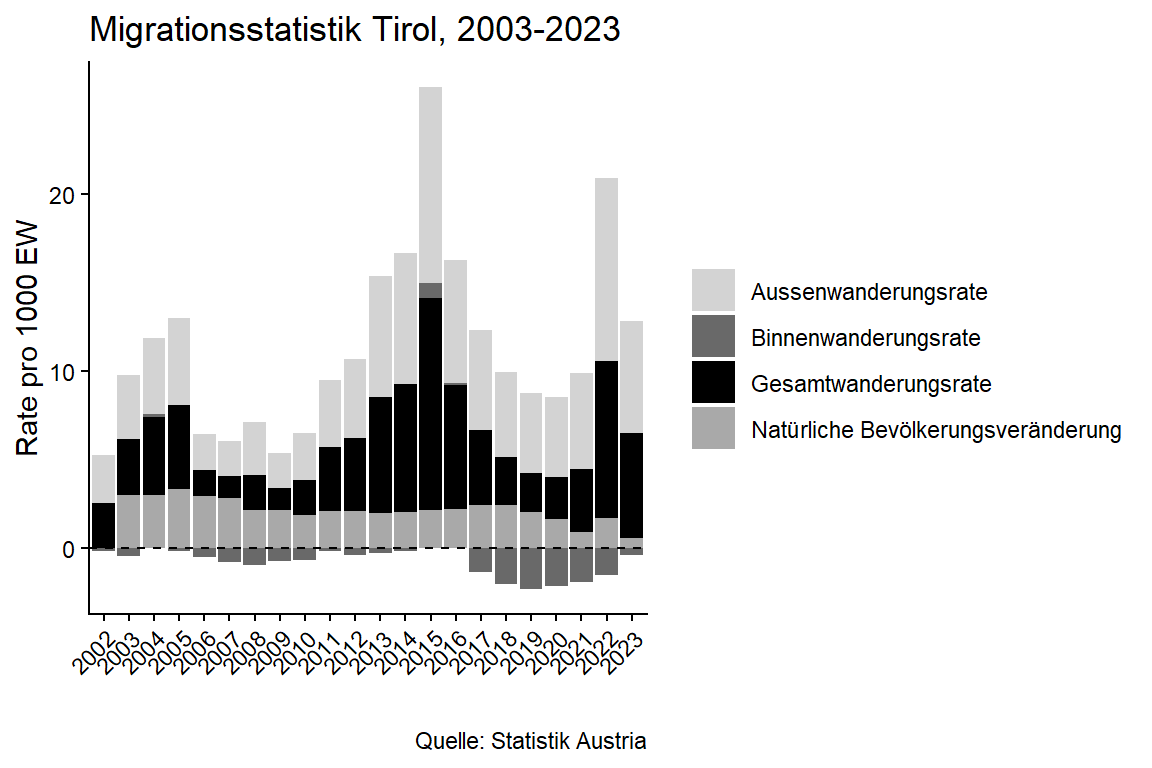
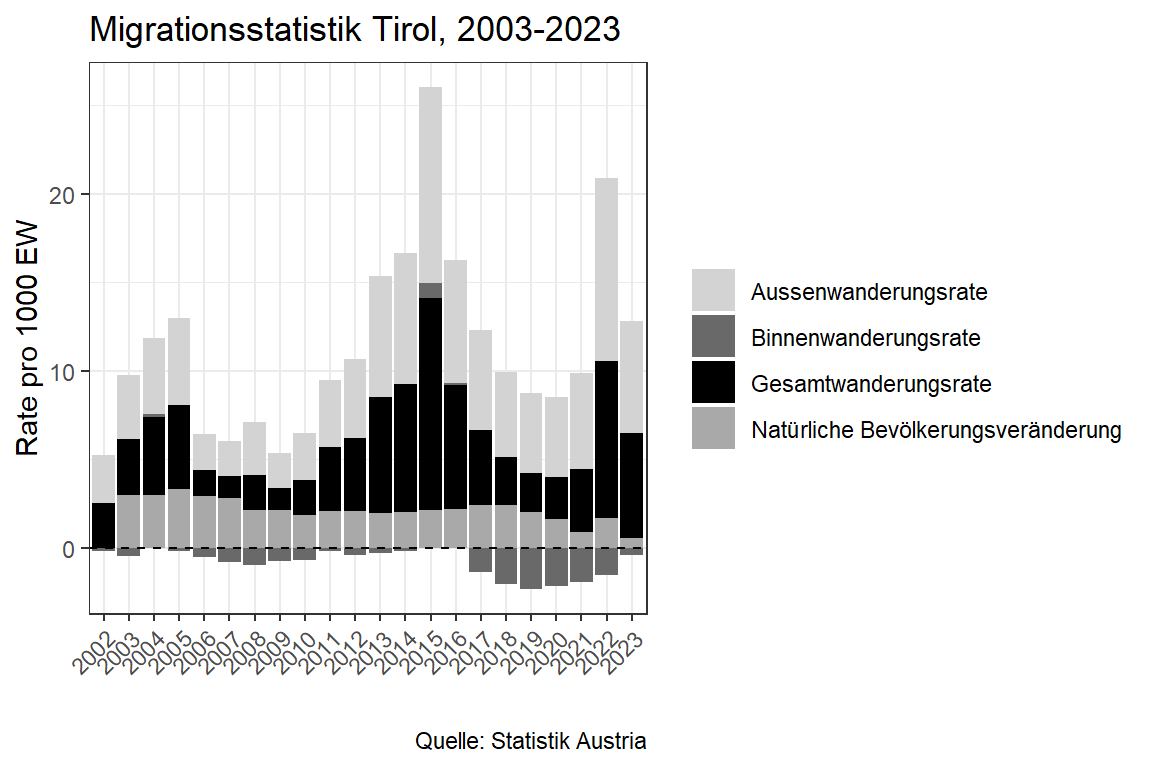
update

Changed region(s): [[0.0625, 0.7812, 0.5625, 0.875], [0.0312, 0.4688, 0.0625, 0.5], [0.0312, 0.25, 0.0625, 0.2812]]

diff --git a/docs/02_data_manipulation.html b/docs/02_data_manipulation.html
@@ -681,7 +681,7 @@ window.Quarto = {
 </div>
 <div class="code-copy-outer-scaffold"><div class="sourceCode cell-code" id="cb38"><pre class="sourceCode r code-with-copy"><code class="sourceCode r"><span id="cb38-1"><a href="#cb38-1" aria-hidden="true" tabindex="-1"></a><span class="fu">ggplot</span>(<span class="at">data =</span> rates_all <span class="sc">%&gt;%</span> <span class="fu">filter</span>(bld <span class="sc">==</span> <span class="st">"Tirol"</span>), <span class="fu">aes</span>(<span class="at">x =</span> <span class="fu">as.factor</span>(jahr), <span class="at">y =</span> value, <span class="at">fill =</span> variable, <span class="at">group =</span> variable))<span class="sc">+</span></span>
 <span id="cb38-2"><a href="#cb38-2" aria-hidden="true" tabindex="-1"></a>  <span class="fu">geom_col</span>()<span class="sc">+</span></span>
-<span id="cb38-3"><a href="#cb38-3" aria-hidden="true" tabindex="-1"></a>  <span class="fu">theme_classic</span>()<span class="sc">+</span></span>
+<span id="cb38-3"><a href="#cb38-3" aria-hidden="true" tabindex="-1"></a>  <span class="fu">theme_bw</span>()<span class="sc">+</span></span>
 <span id="cb38-4"><a href="#cb38-4" aria-hidden="true" tabindex="-1"></a>  <span class="fu">scale_fill_manual</span>(</span>
 <span id="cb38-5"><a href="#cb38-5" aria-hidden="true" tabindex="-1"></a>  <span class="at">values =</span> <span class="fu">c</span>(<span class="st">"au_rate"</span> <span class="ot">=</span> <span class="st">"lightgray"</span>,  </span>
 <span id="cb38-6"><a href="#cb38-6" aria-hidden="true" tabindex="-1"></a>             <span class="st">"bi_rate"</span> <span class="ot">=</span> <span class="st">"dimgray"</span>,   </span>
